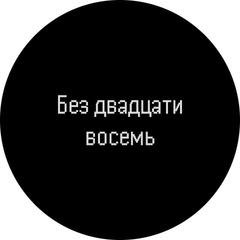
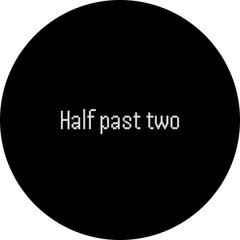
add english support

Changed region(s): [[0.2333, 0.3792, 0.7583, 0.6125]]

diff --git a/verbarius/utils/time/getTimeStringEng.js b/verbarius/utils/time/getTimeStringEng.js
@@ -1,0 +1,128 @@
+import { capitalizeFirst } from '../capitalizeFirst';
+import { NUMBERS } from './numbers_eng';
+import { getHour12Format, getNextHour12Format } from './formatTime';
+import { decline } from '../decline';
+
+/**
+ * One o'clock
+ * Twelve o'clock
+ */
+function getTime01(hour, minute) {
+  if (minute !== 0) {
+    return;
+  }
+
+  const hour12Format = getHour12Format(hour);
+  return `${NUMBERS[hour12Format]}\no'clock`;
+}
+
+/**
+ * Ten past five
+ * Twenty one minute past two
+ */
+function getTime02(hour, minute) {
+  if (minute < 1 || minute > 29) {
+    return;
+  }
+
+  const hour12Format = getHour12Format(hour);
+  const hasPostfix = minute % 5 !== 0;
+  const postfix = decline(minute, ['minute', 'minutes', 'minutes']);
+  const minuteString = `${NUMBERS[minute]}${hasPostfix ? ' ' + postfix : ''}`;
+  console.log('minuteString', minuteString);
+  console.log('hasPostfix', hasPostfix);
+  console.log('postfix', postfix);
+  return `${minuteString}\npast ${NUMBERS[hour12Format]}`;
+}
+
+/**
+ * Half past two
+ */
+function getTime03(hour, minute) {
+  if (minute !== 30) {
+    return;
+  }
+
+  const hour12Format = getHour12Format(hour);
+  return `half past ${NUMBERS[hour12Format]}`;
+}
+
+/**
+ * Ten to five
+ * Seventeen minutes to twelve
+ */
+function getTime04(hour, minute) {
+  if (minute < 30) {
+    return;
+  }
+
+  const minuteLeft = 60 - minute;
+  const hourNext = getNextHour12Format(hour);
+  const hasPostfix = minuteLeft % 5 !== 0;
+  const postfix = decline(minuteLeft, ['minute', 'minutes', 'minutes']);
+  const minuteString = `${NUMBERS[minuteLeft]}${
+    hasPostfix ? ' ' + postfix : ''
+  }`;
+
+  return `${minuteString}\nto ${NUMBERS[hourNext]}`;
+}
+
+/**
+ * Quarter past three
+ * Quarter to elleven
+ */
+function getTime05(hour, minute) {
+  if (minute === 15) {
+    const hour12Format = getHour12Format(hour);
+    return `quarter past ${NUMBERS[hour12Format]}`;
+  }
+
+  if (minute === 45) {
+    const hourNext = getNextHour12Format(hour);
+    return `quarter to ${NUMBERS[hourNext]}`;
+  }
+}
+
+/**
+ * One oh-seven
+ * Twelve fifty-two
+ */
+function getTime06(hour, minute) {
+  if (!minute) {
+    return;
+  }
+
+  const hour12Format = getHour12Format(hour);
+  const minuteString = minute < 10 ? `oh-${NUMBERS[minute]}` : NUMBERS[minute];
+  return `${NUMBERS[hour12Format]} ${minuteString}`;
+}
+
+/**
+ * Noon
+ * Midnight
+ */
+function getTime07(hour, minute) {
+  if ((hour === 12) & (minute === 0)) {
+    return 'noon';
+  }
+
+  if ((hour === 0) & (minute === 0)) {
+    return 'midnight';
+  }
+}
+
+export function getTimeStringEng(hour, minute) {
+  const variants = [
+    getTime01(hour, minute),
+    getTime02(hour, minute),
+    getTime03(hour, minute),
+    getTime04(hour, minute),
+    getTime05(hour, minute),
+    getTime06(hour, minute),
+    getTime07(hour, minute),
+  ].filter(Boolean);
+
+  const randomIndex = Math.floor(Math.random() * variants.length);
+
+  return capitalizeFirst(variants[randomIndex]);
+}

diff --git a/verbarius/utils/time/numbers_eng.js b/verbarius/utils/time/numbers_eng.js
@@ -1,0 +1,62 @@
+export const NUMBERS = [
+  'zero',
+  'one',
+  'two',
+  'three',
+  'four',
+  'five',
+  'six',
+  'seven',
+  'eight',
+  'nine',
+  'ten',
+  'eleven',
+  'twelve',
+  'thirteen',
+  'fourteen',
+  'fifteen',
+  'sixteen',
+  'seventeen',
+  'eighteen',
+  'nineteen',
+  'twenty',
+  'twenty-one',
+  'twenty-two',
+  'twenty-three',
+  'twenty-four',
+  'twenty-five',
+  'twenty-six',
+  'twenty-seven',
+  'twenty-eight',
+  'twenty-nine',
+  'thirty',
+  'thirty-one',
+  'thirty-two',
+  'thirty-three',
+  'thirty-four',
+  'thirty-five',
+  'thirty-six',
+  'thirty-seven',
+  'thirty-eight',
+  'thirty-nine',
+  'forty',
+  'forty-one',
+  'forty-two',
+  'forty-three',
+  'forty-four',
+  'forty-five',
+  'forty-six',
+  'forty-seven',
+  'forty-eight',
+  'forty-nine',
+  'fifty',
+  'fifty-one',
+  'fifty-two',
+  'fifty-three',
+  'fifty-four',
+  'fifty-five',
+  'fifty-six',
+  'fifty-seven',
+  'fifty-eight',
+  'fifty-nine',
+];

diff --git a/verbarius/utils/time/getTimeStringRus.js b/verbarius/utils/time/getTimeStringRus.js
@@ -5,7 +5,7 @@ import {
   CARDINAL_NUMBERS_FEMININE_GENITIVUS,
   CARDINAL_NUMBERS_MASCULINE,
   ORDINAL_NUMBERS_MASCULINE_GENITIVUS,
-} from '../numbers/numbers_rus';
+} from './numbers_rus';
 import { getHour12Format, getNextHour12Format } from './formatTime';
 
 /**
@@ -319,7 +319,7 @@ function getTime13(hour, minute) {
   return hourString + ' ' + postfix;
 }
 
-export function getTimeString(hour, minute) {
+export function getTimeStringRus(hour, minute) {
   const variants = [
     getTime01(hour, minute),
     getTime01b(hour, minute),

diff --git a/verbarius/utils/time/getTimeString.js b/verbarius/utils/time/getTimeString.js
@@ -1,0 +1,15 @@
+import { getTimeStringEng } from './getTimeStringEng';
+import { getTimeStringRus } from './getTimeStringRus';
+
+export function getTimeString(...args) {
+  const lang = DeviceRuntimeCore.HmUtils.getLanguage();
+
+  const FN_MAP = {
+    'ru-RU': getTimeStringRus,
+    'uk-UA': getTimeStringRus,
+    'en-US': getTimeStringEng,
+  };
+
+  const fn = FN_MAP[lang] || FN_MAP['en-US'];
+  return fn(...args);
+}

diff --git a/verbarius/watchface/index.js b/verbarius/watchface/index.js
@@ -1,5 +1,5 @@
 import { hasCustomFontSupport } from '../utils/constants';
-import { getTimeString } from '../utils/time/getTimeStringRus';
+import { getTimeString } from '../utils/time/getTimeString';
 import { AOD_TIME_TEXT_PROPS, TIME_TEXT_PROPS } from './index.r.layout';
 
 WatchFace({

diff --git a/verbarius/README.md b/verbarius/README.md
@@ -13,11 +13,11 @@ Watchface for Amazfit GTR Mini and other round ZeppOS watches
 
 **Model compatibility:** Amazfit GTR Mini (round, 416 x 416 pixels) / GTR 4 / T-Rex 2 and other round watches
 
-**AOD:** No
+**AOD:** Yes
 
 **Tap-zones:** No
 
-**Language:** Russian
+**Language:** Russian, English
 
 ## Download ⏬
 
